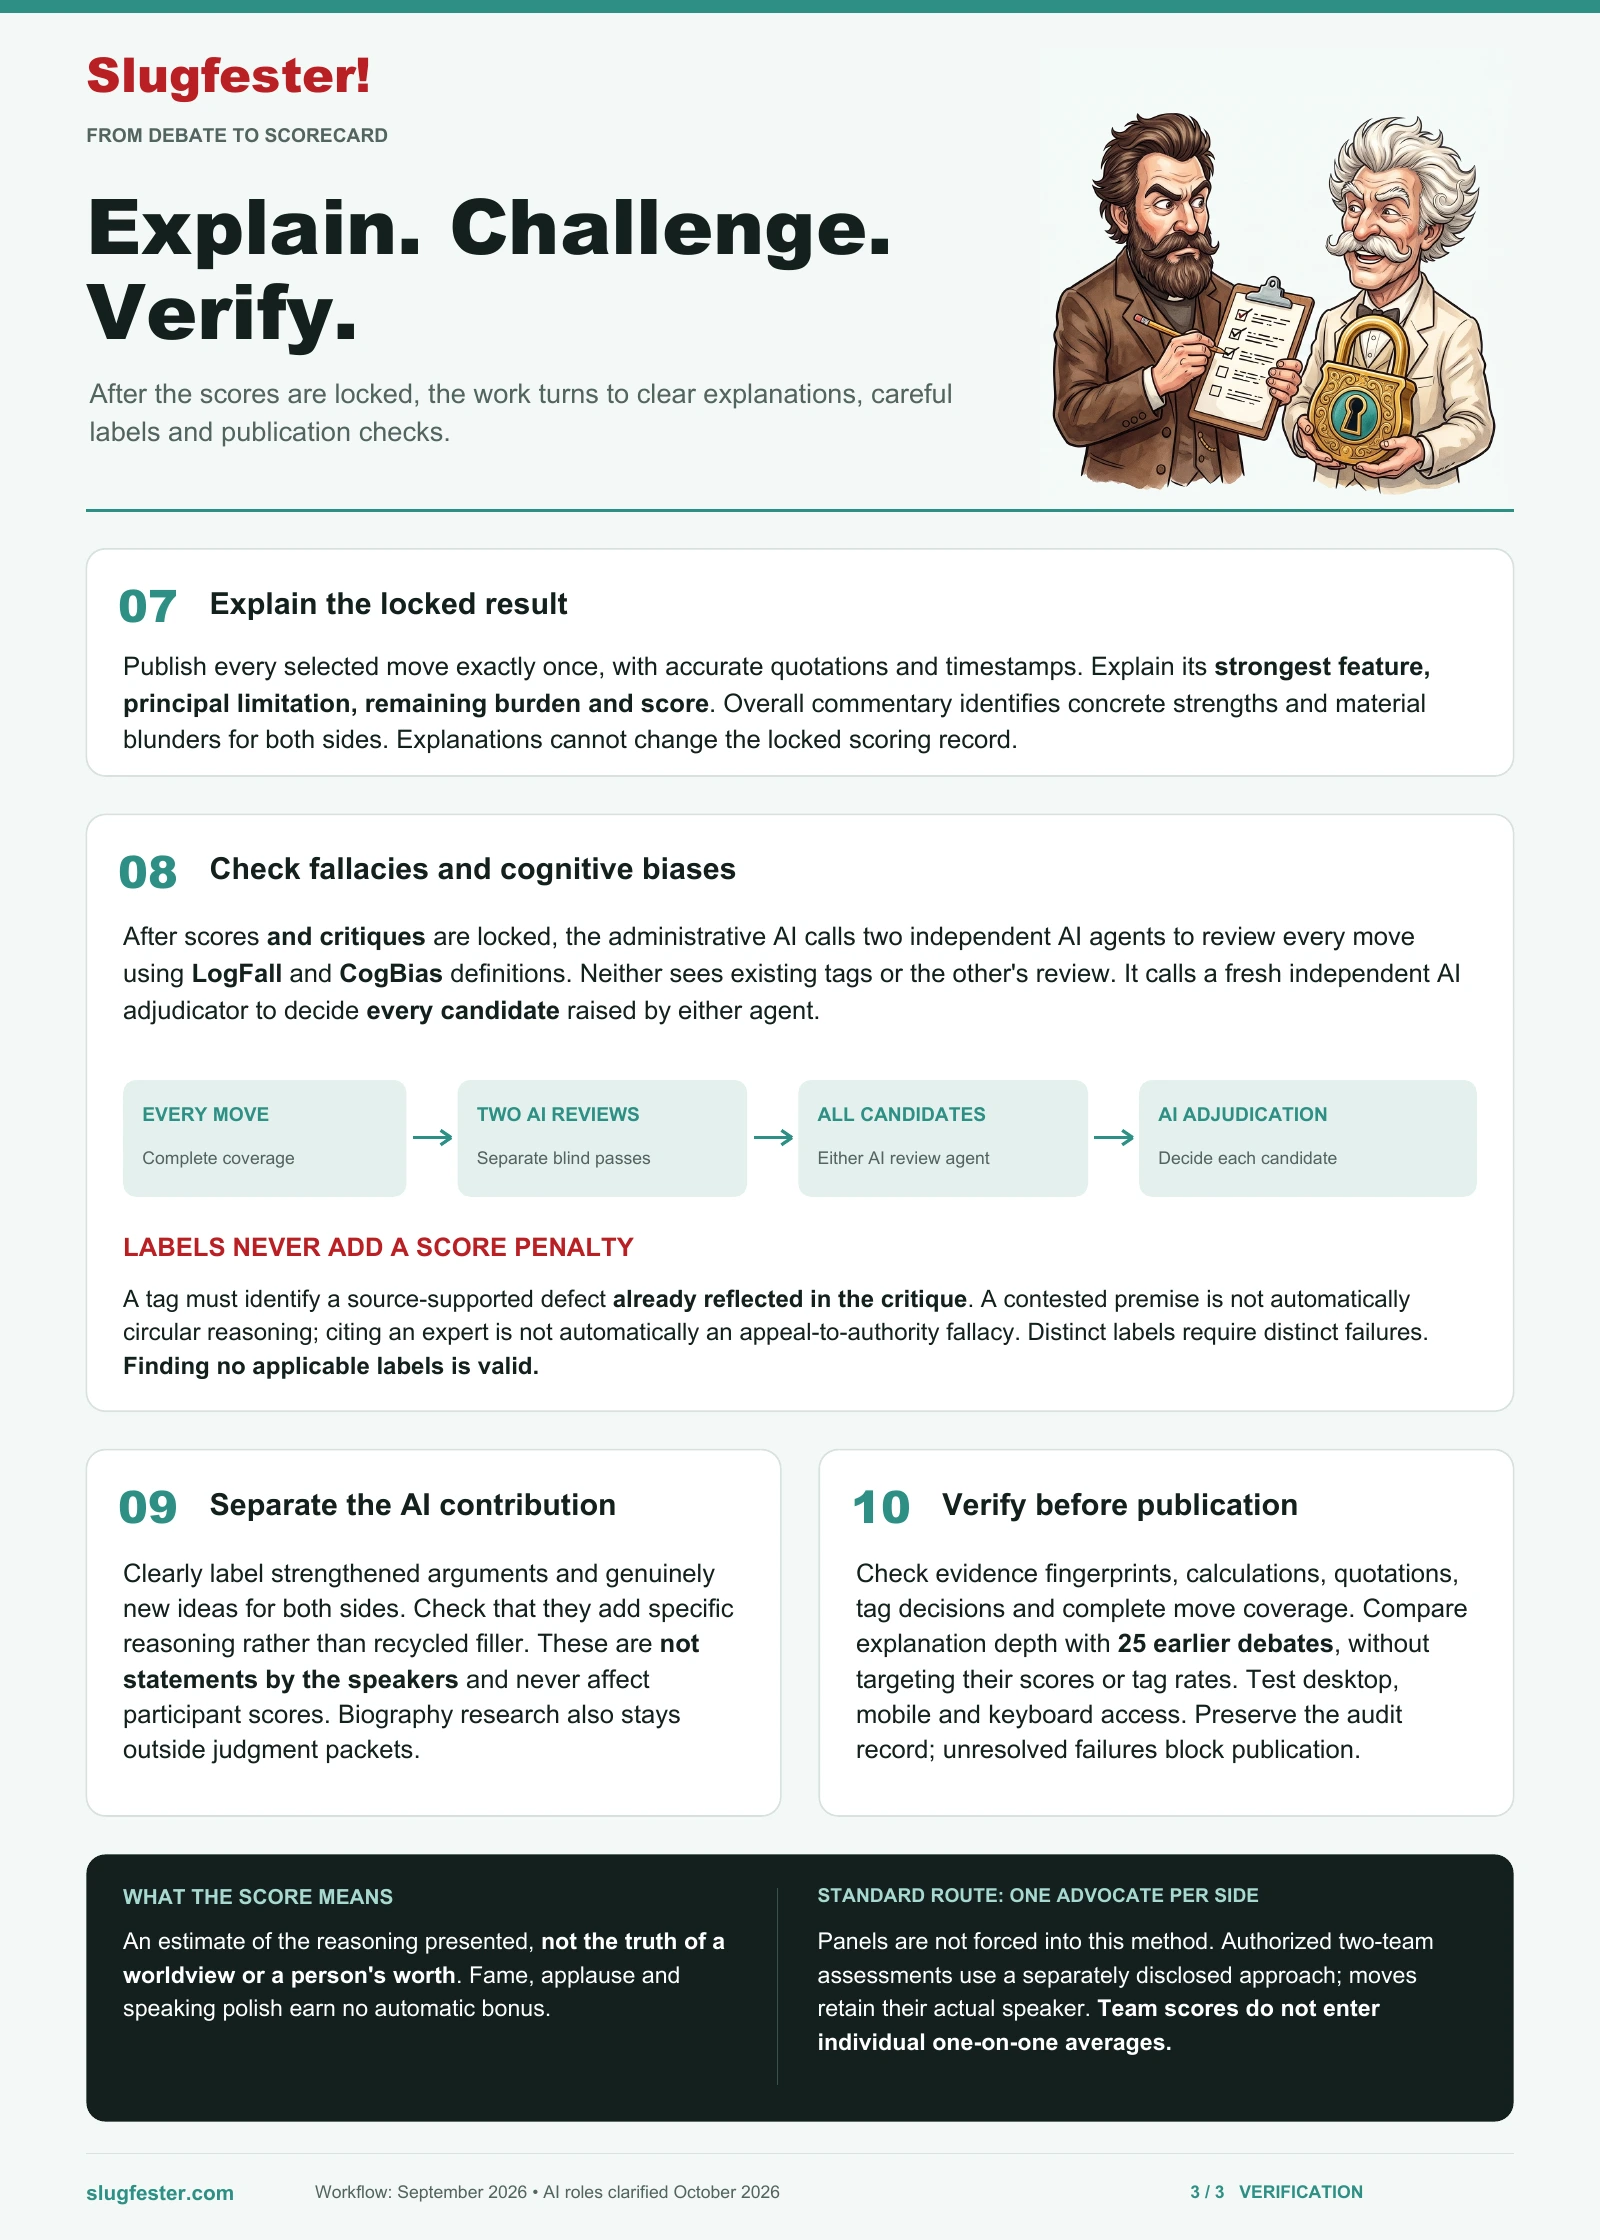
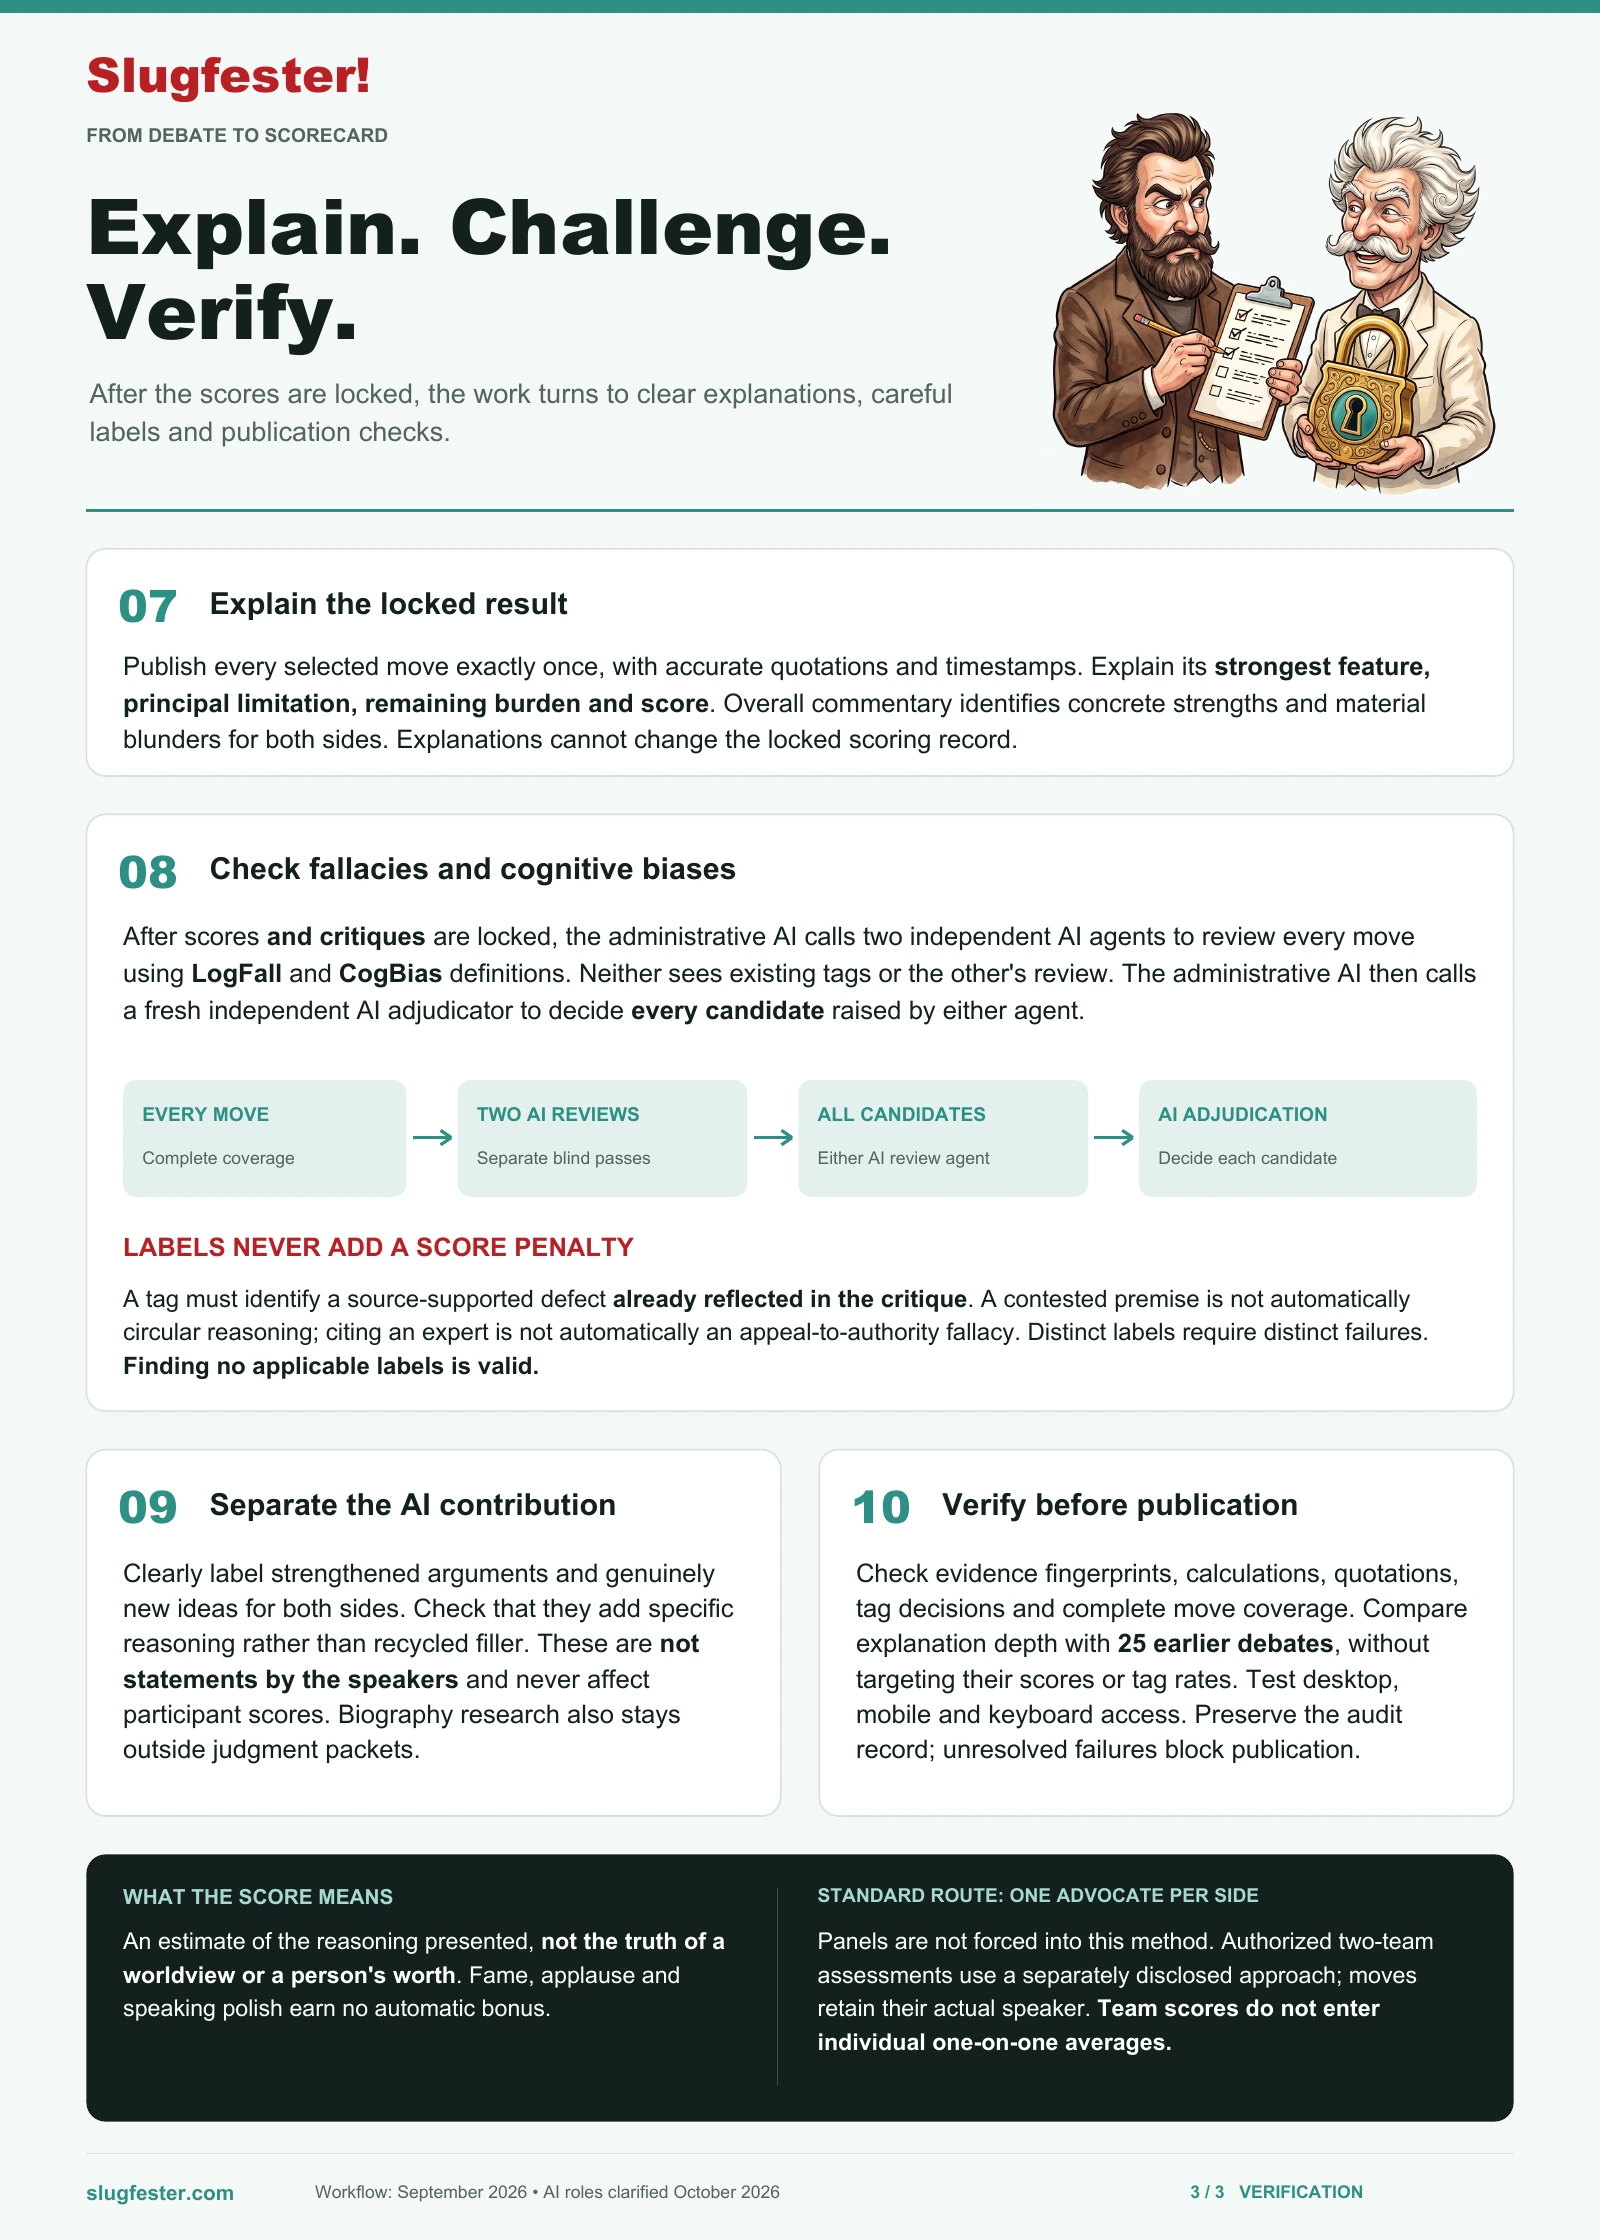
Name the administrative AI explicitly in the label-review step

Changed region(s): [[0.0938, 0.4062, 0.5625, 0.4688], [0.6562, 0.4062, 0.9062, 0.4375], [0.5938, 0.4062, 0.6562, 0.4688]]

diff --git a/assets/assessment-process/source/build_infographic.py b/assets/assessment-process/source/build_infographic.py
@@ -202,7 +202,7 @@ def panel_three(c):
          77,406,846,16,23,maxh=72)
 
     stage(c,8,"Check fallacies and cognitive biases",54,509,892,373,TEAL)
-    para(c,"After scores <b>and critiques</b> are locked, the administrative AI calls two independent AI agents to review every move using <b>LogFall</b> and <b>CogBias</b> definitions. Neither sees existing tags or the other's review. It calls a fresh independent AI adjudicator to decide <b>every candidate</b> raised by either agent.",
+    para(c,"After scores <b>and critiques</b> are locked, the administrative AI calls two independent AI agents to review every move using <b>LogFall</b> and <b>CogBias</b> definitions. Neither sees existing tags or the other's review. The administrative AI then calls a fresh independent AI adjudicator to decide <b>every candidate</b> raised by either agent.",
          77,575,846,16,23,maxh=92)
     for x,w,title,sub in [
         (77,177,"EVERY MOVE","Complete coverage"),
